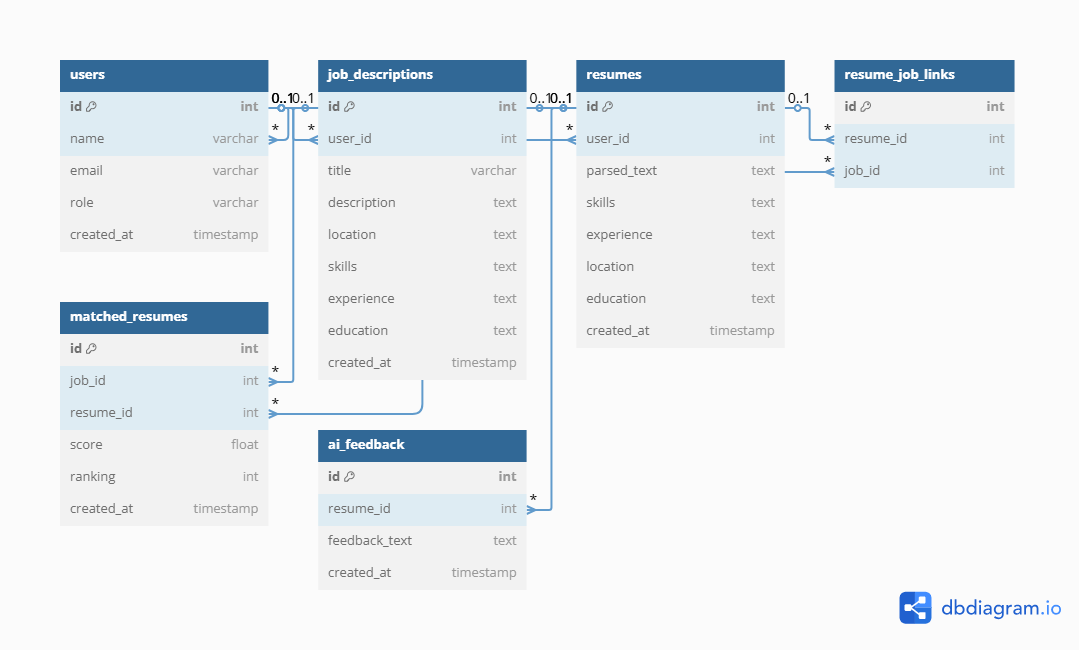
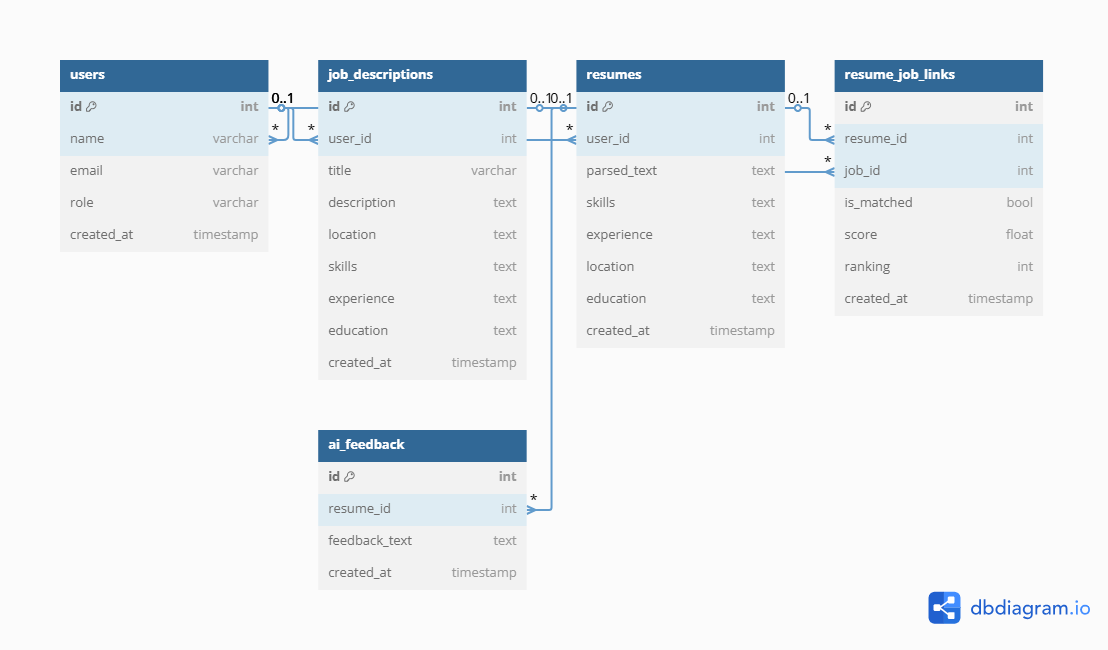
ERD Updated

diff --git a/README.md b/README.md
@@ -42,7 +42,7 @@ The AI-powered resume screener automates resume screening by extracting key info
 | `users`           | Stores HR & Applicants info  |
 | `job_descriptions` | Stores job postings         |
 | `resumes`          | Extracted resume data       |
-| `matched_resumes` | AI-ranked results           |
+| `Resume_job_links` | AI-ranked results           |
 | `ai_feedback`     | AI-generated resume feedback |
 
 ### Relationship Types
@@ -53,8 +53,8 @@ The AI-powered resume screener automates resume screening by extracting key info
 | Users             | Resumes           | One-to-Many        |
 | Resumes           | Job Descriptions  | Many-to-Many       |
 | Resumes           | AI Feedback       | One-to-One        |
-| Resumes           | Matched Resumes   | Many-to-Many       |
-| Job Descriptions  | Matched Resumes   | Many-to-Many       |
+| Resumes           | Resumes_job_links  | Many-to-Many       |
+| Job Descriptions  | Resumes_job_links  | Many-to-Many       |
 
 ### **ER Diagram**
 
